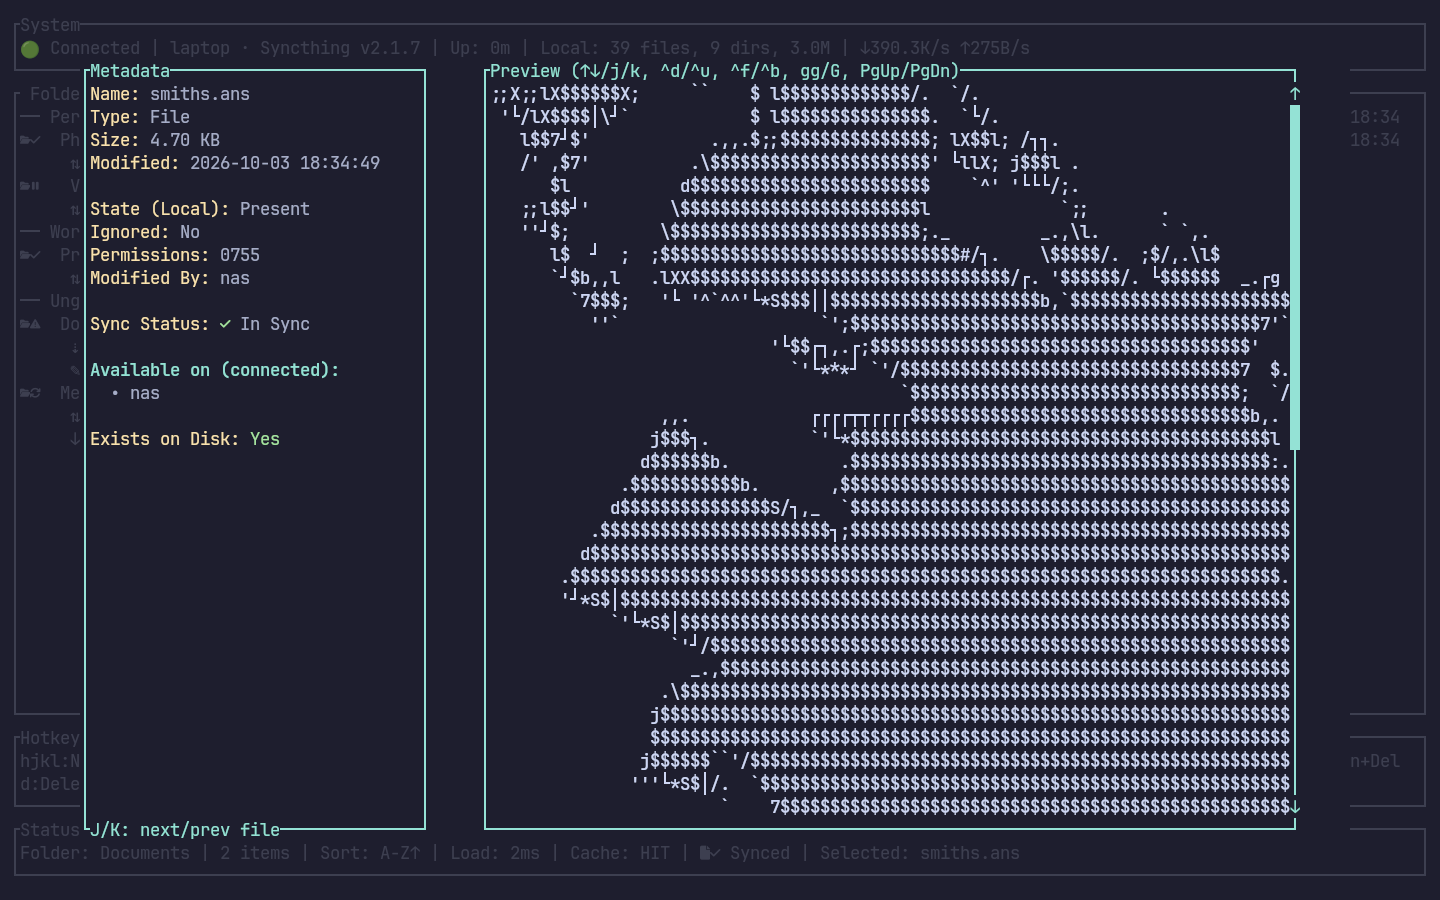
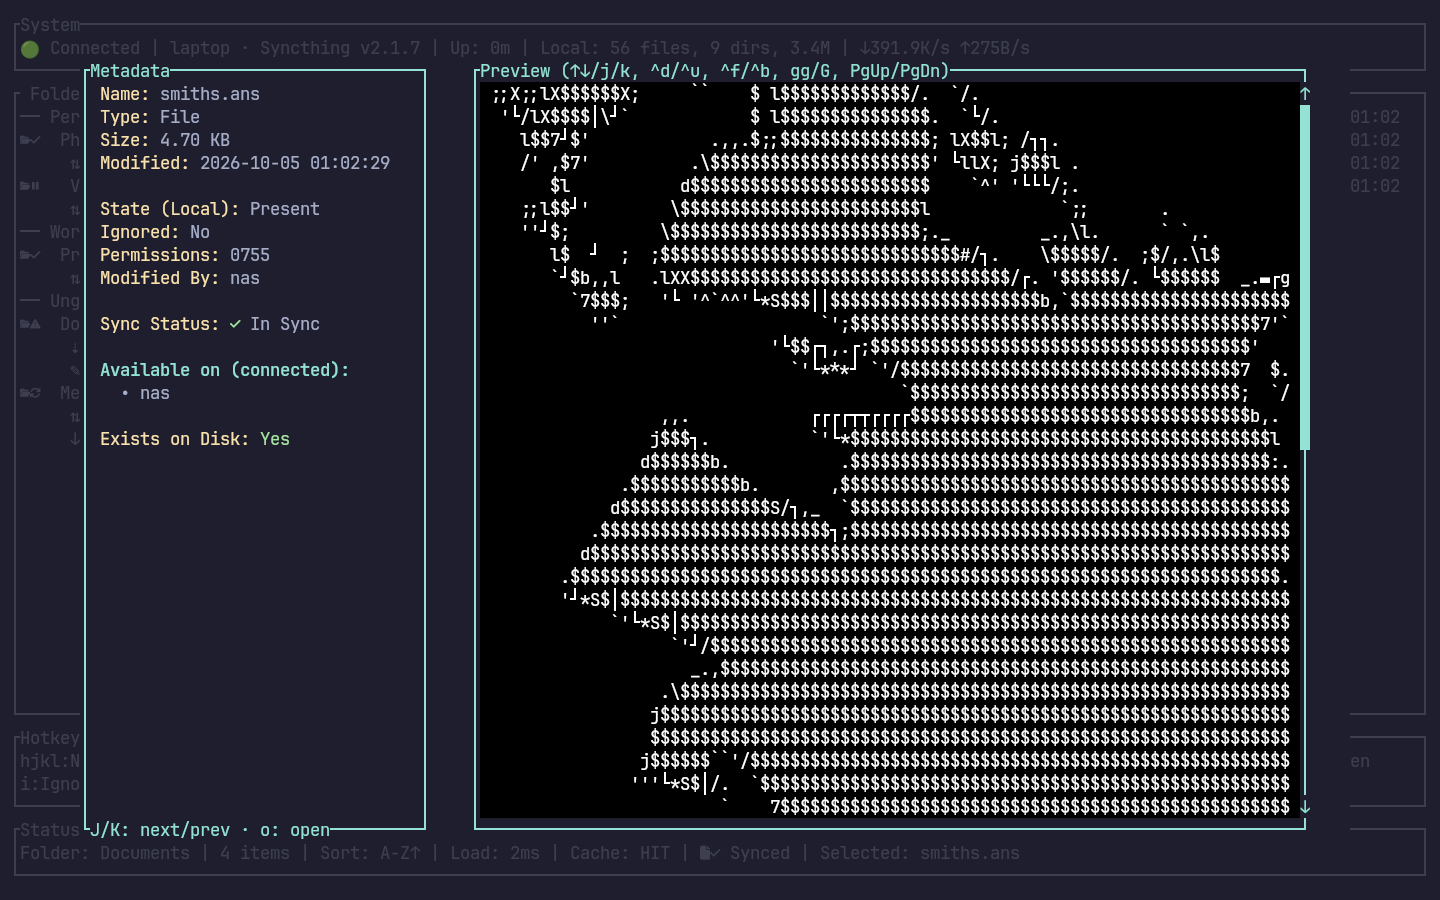
docs: Add a preview montage to the README and lucia.ans to the demo art

diff --git a/demo/README.md b/demo/README.md
@@ -21,12 +21,12 @@ The font in `kitty.conf` is JetBrainsMono Nerd Font Mono (`ttf-jetbrains-mono-ne
 
 ```bash
 cargo build --release      # record.sh never builds; it runs target/release/stui
-demo/record.sh             # full run: cluster up, 7 stills, hero GIF, verify, cluster down
+demo/record.sh             # full run: cluster up, 7 stills, hero and previews GIFs, verify, cluster down
 ```
 
 | Flag / env | Effect |
 |---|---|
-| `--only stills` / `--only hero` | Record just one pass |
+| `--only stills` / `--only hero` / `--only previews` | Record just one pass |
 | `--shot NAME` | Redo one still (`folders breadcrumbs preview-image preview-ansi out-of-sync search history`) |
 | `--keep` | Leave the cluster running afterwards |
 | `--reuse` | Skip `up.sh` if the laptop API already answers (implies `--keep`) |
@@ -34,7 +34,7 @@ demo/record.sh             # full run: cluster up, 7 stills, hero GIF, verify, c
 | `GIF_FPS`, `GIF_QUALITY` | gifski settings (defaults 15 and 80). The GIF must stay under 8 MiB |
 | `DEMO_SYNCTHING_TAG=tag` | Syncthing image tag for both nodes (default `2.1.7`), read by `up.sh`. Use e.g. `2.0` to check behavior on Syncthing without folder groups |
 
-`record.sh` checks that stills are 1440x900 and that the GIF is under the size cap. The shot list and the hero's key sequences live in `shots.sh`. The look lives in `kitty.conf` (font, colors) and `sway.conf` (resolution).
+`record.sh` checks that stills are 1440x900 and that each GIF is under the size cap. The shot list and the hero's and previews' key sequences live in `shots.sh`. `kit send-key J` sends a plain `j`, so shifted letters go through `send-text` (`htype`). The look lives in `kitty.conf` (font, colors) and `sway.conf` (resolution).
 
 Media only trickles in for about 25 minutes after `up.sh`. Shots that should show syncing need a fresh cluster, so skip `--reuse` if the cluster is older than that.
 
@@ -92,7 +92,7 @@ Run each session inside a single `bash -c`. Background processes (sway, kitty, w
 
 | Folder | State on the laptop |
 |---|---|
-| Documents | Receive-only with 3 local changes (edit, add, delete). `art/` holds `gentoo.ans` and `smiths.ans` |
+| Documents | Receive-only with 3 local changes (edit, add, delete). `art/` holds `gentoo.ans`, `lucia.ans`, `smiths.ans` and `stui.nfo` |
 | Media | Six 100 MB files trickling in at 400 KiB/s: syncing and remote-only |
 | Photos | Synced, with `Cats/` and `Kitten/`. `Kitten/kitten-sideways.jpg` stores its pixels sideways with EXIF orientation 6, so it only shows upright when orientation is applied |
 | Projects | Synced. `notes/scratch.txt` is ignored but on disk, and `website/build.log` is ignored and deleted |

diff --git a/README.md b/README.md
@@ -28,7 +28,9 @@ A fast, keyboard-driven terminal UI for managing [Syncthing](https://syncthing.n
   </tr>
 </table>
 
-Screenshots and the demo GIF are generated by [`demo/record.sh`](demo/README.md) against throwaway Syncthing instances.
+![Previewing JSON, a zip and a tar.gz, a CSV table, UTF-16 text, and ANSI and NFO art, stepping file to file with J](docs/assets/previews.gif)
+
+Screenshots and the demo GIFs are generated by [`demo/record.sh`](demo/README.md) against throwaway Syncthing instances.
 
 ## Features
 
